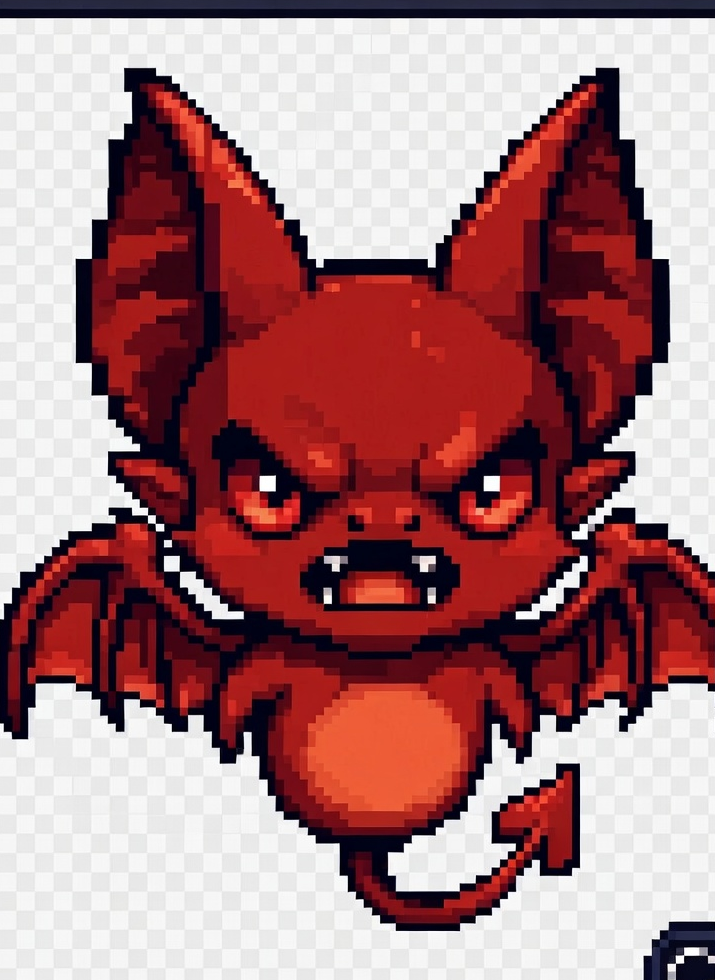
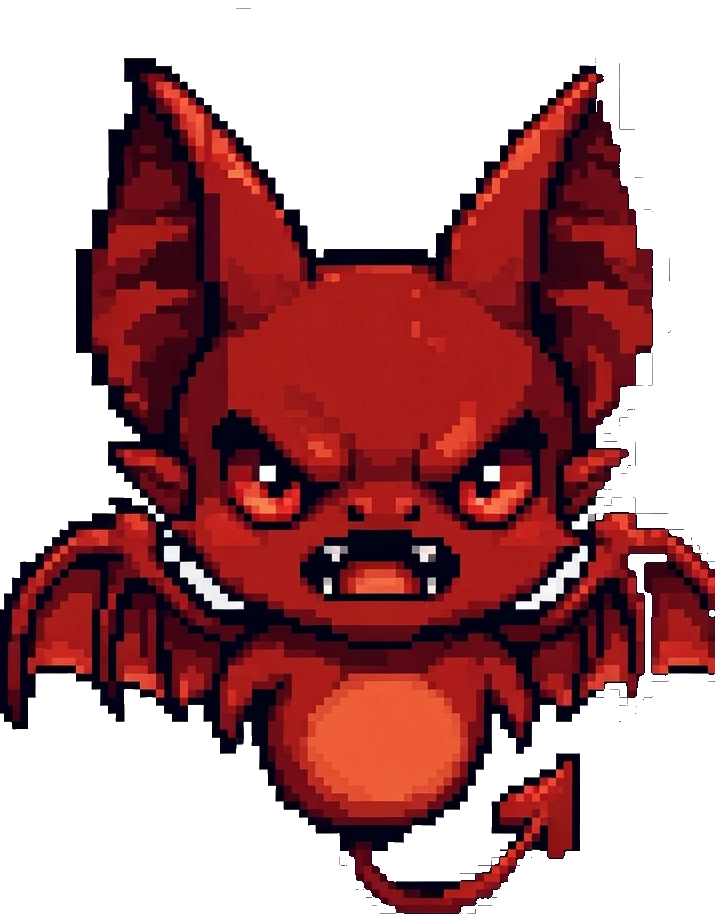
update

diff --git a/github-pages-site/magic-survive-prototype/game.js b/github-pages-site/magic-survive-prototype/game.js
@@ -690,6 +690,17 @@ const gearBook = [
   { name: "增幅器", rarity: "rare", desc: "Magic area +10%", apply: s => { s.area *= 1.1; } },
   { name: "火药", rarity: "common", desc: "Magic area +5%", apply: s => { s.area *= 1.05; } },
   { name: "放射元素", rarity: "epic", desc: "Magic area +15%, duration +10%", apply: s => { s.area *= 1.15; s.duration = (s.duration || 1) * 1.1; } },
+  { name: "太阳镜", rarity: "common", desc: "Crit chance +3%", apply: s => { s.crit += 0.03; } },
+  { name: "彩虹挂饰", rarity: "rare", desc: "Crit chance +10%", apply: s => { s.crit += 0.10; } },
+  { name: "袖箭", rarity: "epic", desc: "Crit chance +15%", apply: s => { s.crit += 0.15; } },
+  { name: "处刑者之斧", rarity: "epic", desc: "Crit damage +100%", apply: s => { s.critMul += 1.0; } },
+  { name: "影子风衣", rarity: "rare", desc: "Ranged attack dodge +50%", apply: s => { s.rangedDodgeChance = Math.max(s.rangedDodgeChance || 0, 0.5); } },
+  { name: "三尖两刃刀", rarity: "common", desc: "Crit damage +30%", apply: s => { s.critMul += 0.3; } },
+  { name: "盗贼匕首", rarity: "rare", desc: "Crit chance +6%, crit damage +20%", apply: s => { s.crit += 0.06; s.critMul += 0.2; } },
+  { name: "奥数指环", rarity: "common", desc: "攻击力+10%", apply: s => { s.damage *= 1.1; } },
+  { name: "紧急医疗包", rarity: "common", desc: "生命恢复+3/秒", apply: s => { s.regen += 3; } },
+  { name: "比蒙之心", rarity: "epic", desc: "最大生命+40%，生命恢复+10/秒", apply: s => { const gain = Math.round(s.maxHp * 0.4); s.maxHp += gain; s.hp += gain; s.regen += 10; } },
+  { name: "便携铁匠铺", rarity: "rare", desc: "全部友方单位减伤+10%", apply: s => { s.groupReduce += 0.10; } },
   { name: "空间扭曲外套", rarity: "epic", desc: "50% chance to reflect ranged attacks", apply: s => { s.rangedReflectChance = Math.max(s.rangedReflectChance || 0, 0.5); } }
 ];
 
@@ -897,14 +908,14 @@ function newState(classId = "elementMage") {
       x: W / 2, y: H / 2, r: Math.round(16 * PLAYER_SIZE_MULT), hp: 180, maxHp: 180, xp: 0, next: 32, level: 1,
       speed: 205, damage: 1, area: 1, cooldown: 1, followerCooldown: 1, duration: 1, defense: 0, groupReduce: 0,
       fire: 1, ice: 1, wind: 1, earth: 1, lightning: 1, arcane: 1, poison: 1,
-      regen: 0.7, crit: 0.05, critMul: 1.5, thorns: 0, healPulse: false, followerLimitBonus: 0, spiritBonus: 0, healAura: 0, healAuraRange: 0, deathExplosionChance: 0, rangedReflectChance: 0, ward: 0, hitGrace: 0
+      regen: 0.7, crit: 0.10, critMul: 1.5, thorns: 0, healPulse: false, followerLimitBonus: 0, spiritBonus: 0, healAura: 0, healAuraRange: 0, deathExplosionChance: 0, rangedReflectChance: 0, rangedDodgeChance: 0, ward: 0, hitGrace: 0
     },
     skills: Object.fromEntries(selectedClass.skills.map(id => [id, skillState(id)])),
     followers: [],
     items: [],
     gear: [],
     artifacts: [],
-    blackMarket: { x: W / 2 + 280, y: H / 2 - 150, r: 88, wasNear: false },
+    blackMarket: { x: W / 2 + 280, y: H / 2 - 150, r: 88, wasNear: false, cycle: 0 },
     worldBosses: Object.fromEntries(Object.entries(WORLD_BOSS_SITES).map(([id, site]) => [id, { ...site, spawned: false, defeated: false }])),
     last: performance.now()
   };
@@ -1274,8 +1285,8 @@ function castSkill(s) {
     const waves = 1 + Math.floor((lvl - 1) / 2);
     for (let w = 0; w < waves; w++) {
       const waveArea = area * (0.72 + w * 0.28);
-      damageCircle(p.x, p.y, waveArea, dmg * (1 - w * 0.12), b.element, true);
-      state.zones.push({ x: p.x, y: p.y, r: waveArea, life: 0.55 + w * 0.12, maxLife: 0.55 + w * 0.12, delay: w * 0.09, damage: dmg * (1 - w * 0.12) * 0.34, impactDamage: dmg * (1 - w * 0.12) * 0.95, element: b.element, type: "earthquakeFx", color: "rgba(180,128,84,.24)", grow: 1.45 + w * 0.22, spin: rand(-0.25, 0.25) });
+      damageCircle(p.x, p.y, waveArea, dmg * (1 - w * 0.12), b.element, true, { falloff: true, minMultiplier: 0.28 });
+      state.zones.push({ x: p.x, y: p.y, r: waveArea, life: 0.55 + w * 0.12, maxLife: 0.55 + w * 0.12, delay: w * 0.09, damage: dmg * (1 - w * 0.12) * 0.34, impactDamage: dmg * (1 - w * 0.12) * 0.95, element: b.element, type: "earthquakeFx", color: "rgba(180,128,84,.24)", grow: 1.45 + w * 0.22, spin: rand(-0.25, 0.25), falloff: true });
     }
     for (let i = 0; i < 5 + lvl * 2; i++) {
       const a = rand(0, Math.PI * 2);
@@ -1949,13 +1960,16 @@ function behemothEarthquake(m) {
   const p = state.player;
   const radius = 185;
   const damage = Math.max(8, 34 * ENEMY_DAMAGE_MULT * timeGrowth() - effectiveDefense() * 0.45) * (1 - effectiveGroupReduce());
-  if (Math.hypot(p.x - m.x, p.y - m.y) < radius + p.r && p.hitGrace <= 0) {
-    p.hp -= damage;
+  const playerDistance = Math.hypot(p.x - m.x, p.y - m.y);
+  if (playerDistance < radius + p.r && p.hitGrace <= 0) {
+    const taken = damage * distanceDamageMultiplier(playerDistance, radius, 0.3);
+    p.hp -= taken;
     p.hitGrace = 0.58;
-    addText(`-${Math.ceil(damage)}`, p.x - 10, p.y - 28, "#ff7a66");
+    addText(`-${Math.ceil(taken)}`, p.x - 10, p.y - 28, "#ff7a66");
   }
   for (const f of state.followers) {
-    if (f.hp > 0 && Math.hypot(f.x - m.x, f.y - m.y) < radius + 18) damageFollower(f, damage * 0.82);
+    const followerDistance = Math.hypot(f.x - m.x, f.y - m.y);
+    if (f.hp > 0 && followerDistance < radius + 18) damageFollower(f, damage * 0.82 * distanceDamageMultiplier(followerDistance, radius, 0.3));
   }
   state.zones.push({ x: m.x, y: m.y, r: radius, life: 0.58, maxLife: 0.58, damage: 0, element: "earth", type: "visual", color: "rgba(118,72,42,.30)", grow: 2.8 });
   addRing(m.x, m.y, radius * 0.58, "rgba(255,150,74,.78)", 0.36);
@@ -2026,16 +2040,27 @@ function updateBehemothCharge(m, target, dt) {
   return true;
 }
 
-function damagePlayerAndFollowersCircle(x, y, radius, damage, color = "#ff7a66") {
+function distanceDamageMultiplier(distance, radius, minMultiplier = 0.3) {
+  const t = Math.min(1, Math.max(0, distance / Math.max(1, radius)));
+  return minMultiplier + (1 - minMultiplier) * (1 - t);
+}
+
+function damagePlayerAndFollowersCircle(x, y, radius, damage, color = "#ff7a66", opts = {}) {
   const p = state.player;
-  if (Math.hypot(p.x - x, p.y - y) < radius + p.r && p.hitGrace <= 0) {
-    const taken = Math.max(1, damage - effectiveDefense() * 0.35) * (1 - effectiveGroupReduce());
+  const playerDistance = Math.hypot(p.x - x, p.y - y);
+  if (playerDistance < radius + p.r && p.hitGrace <= 0) {
+    const falloff = opts.falloff ? distanceDamageMultiplier(playerDistance, radius, opts.minMultiplier) : 1;
+    const taken = Math.max(1, damage * falloff - effectiveDefense() * 0.35) * (1 - effectiveGroupReduce());
     p.hp -= taken;
     p.hitGrace = 0.5;
     addText(`-${Math.ceil(taken)}`, p.x - 10, p.y - 28, color);
   }
   for (const f of state.followers) {
-    if (f.hp > 0 && Math.hypot(f.x - x, f.y - y) < radius + 16) damageFollower(f, damage * 0.8);
+    const followerDistance = Math.hypot(f.x - x, f.y - y);
+    if (f.hp > 0 && followerDistance < radius + 16) {
+      const falloff = opts.falloff ? distanceDamageMultiplier(followerDistance, radius, opts.minMultiplier) : 1;
+      damageFollower(f, damage * 0.8 * falloff);
+    }
   }
 }
 
@@ -2303,10 +2328,12 @@ function isZombieMonster(m) {
   return monsterAssetByName[m.name] === "Zombie.png" || m.name === "Zombie";
 }
 
-function damageCircle(x, y, r, damage, element, slow) {
+function damageCircle(x, y, r, damage, element, slow, opts = {}) {
   for (const m of state.monsters) {
-    if (Math.hypot(m.x - x, m.y - y) < r + m.r) {
-      hitMonster(m, damage, element);
+    const distance = Math.hypot(m.x - x, m.y - y);
+    if (distance < r + m.r) {
+      const falloff = opts.falloff ? distanceDamageMultiplier(distance, r, opts.minMultiplier) : 1;
+      hitMonster(m, damage * falloff, element);
       if (slow) {
         m.slow = 1;
         if (element === "ice") m.frozen = Math.max(m.frozen || 0, 1.15);
@@ -2523,7 +2550,7 @@ function update(dt) {
 function typhonEarthquake(m) {
   const radius = 250;
   const damage = 58 * ENEMY_DAMAGE_MULT * timeGrowth() * (m.attackMul || 1);
-  damagePlayerAndFollowersCircle(m.x, m.y, radius, damage, "#ff9b46");
+  damagePlayerAndFollowersCircle(m.x, m.y, radius, damage, "#ff9b46", { falloff: true, minMultiplier: 0.3 });
   state.zones.push({ x: m.x, y: m.y, r: radius, life: 0.7, maxLife: 0.7, damage: 0, element: "earth", type: "quakeFx", color: "rgba(255,136,54,.28)", grow: 2.4 });
   addRing(m.x, m.y, radius * 0.55, "rgba(255,165,72,.86)", 0.42);
   addRing(m.x, m.y, radius, "rgba(255,95,42,.82)", 0.7);
@@ -2680,6 +2707,11 @@ function updateWorldBossSites() {
 function updateBlackMarket() {
   const market = state.blackMarket;
   if (!market) return;
+  updateBlackMarketSchedule();
+  if (!isBlackMarketActive()) {
+    market.wasNear = false;
+    return;
+  }
   const p = state.player;
   const d = Math.hypot(p.x - market.x, p.y - market.y);
   if (d < market.r && !market.wasNear) {
@@ -2690,14 +2722,32 @@ function updateBlackMarket() {
   }
 }
 
+function isBlackMarketActive() {
+  if (!state?.blackMarket) return false;
+  return (state.time % 300) < 75;
+}
+
+function updateBlackMarketSchedule() {
+  const market = state.blackMarket;
+  if (!market) return;
+  const cycle = Math.floor(state.time / 300);
+  if (market.cycle === cycle) return;
+  market.cycle = cycle;
+  market.wasNear = false;
+  const angle = rand(0, Math.PI * 2);
+  const distance = rand(360, 560);
+  market.x = state.player.x + Math.cos(angle) * distance;
+  market.y = state.player.y + Math.sin(angle) * distance;
+}
+
 function canOpenBlackMarket() {
   const market = state?.blackMarket;
-  if (!state?.running || state.paused || !market) return false;
+  if (!state?.running || state.paused || !market || !isBlackMarketActive()) return false;
   return Math.hypot(state.player.x - market.x, state.player.y - market.y) < market.r + 24;
 }
 
 function openBlackMarket() {
-  if (!state?.running || !state.blackMarket) return;
+  if (!state?.running || !state.blackMarket || !isBlackMarketActive()) return;
   state.paused = true;
   const offers = [];
   const followerPool = [...followerChoices].sort(() => Math.random() - 0.5).slice(0, 3);
@@ -3337,7 +3387,7 @@ function throwBoulder(f, target, damage) {
 
 function giantEarthquake(f, damage) {
   const radius = 132;
-  damageCircle(f.x, f.y, radius, damage, "earth", true);
+  damageCircle(f.x, f.y, radius, damage, "earth", true, { falloff: true, minMultiplier: 0.28 });
   state.zones.push({
     x: f.x,
     y: f.y,
@@ -3564,11 +3614,16 @@ function updateEnemyShots(dt) {
       }
     }
     if (hitFollower) {
-      damageFollower(hitFollower, s.damage);
+      damageFollower(hitFollower, s.damage * 0.5);
       state.enemyShots.splice(i, 1);
       continue;
     }
     if (Math.hypot(s.x - p.x, s.y - p.y) < s.r + p.r) {
+      if (!p.ward && (p.rangedDodgeChance || 0) > 0 && Math.random() < p.rangedDodgeChance) {
+        addText("DODGE", p.x - 18, p.y - 42, "#a7f3d0");
+        state.enemyShots.splice(i, 1);
+        continue;
+      }
       if (!p.ward && (p.rangedReflectChance || 0) > 0 && Math.random() < p.rangedReflectChance) {
         reflectEnemyShot(s);
         state.enemyShots.splice(i, 1);
@@ -3597,7 +3652,7 @@ function updateZones(dt) {
     z.angle = (z.angle || 0) + (z.spin || 0) * dt;
     if (z.type === "earthquakeFx" && !z.impactDone) {
       z.impactDone = true;
-      damageCircle(z.x, z.y, z.r, z.impactDamage || z.damage || 0, z.element, true);
+      damageCircle(z.x, z.y, z.r, z.impactDamage || z.damage || 0, z.element, true, { falloff: true, minMultiplier: 0.28 });
       addParticles(z.x, z.y, "rgba(255,184,94,.64)", 12, z.r * 0.38, 0.5);
     }
     if (z.followPlayer) {
@@ -3649,7 +3704,7 @@ function updateZones(dt) {
       z.quakeTick = (z.quakeTick || 0) - dt;
       if (z.quakeTick <= 0) {
         z.quakeTick = 0.16;
-        damageCircle(z.x, z.y, z.r, (z.damage || z.impactDamage * 0.32 || 0) * 0.85, z.element, true);
+        damageCircle(z.x, z.y, z.r, (z.damage || z.impactDamage * 0.32 || 0) * 0.85, z.element, true, { falloff: true, minMultiplier: 0.28 });
       }
     }
     if (z.poisonDamage || z.blind || z.burnVulnerable || z.burnDamage || z.slow || z.diseaseDamage) {
@@ -3743,7 +3798,7 @@ function updateMonsters(dt) {
     updateDiseaseStatus(m, dt);
     updateBurnStatus(m, dt);
     if (m.burnVulnerable) m.burnVulnerable.time -= dt;
-    const followerTarget = far > 360 ? nearestFollower(m, 430) : null;
+    const followerTarget = far > 640 ? nearestFollower(m, 300) : null;
     const target = followerTarget || p;
     const targetRadius = followerTarget ? 15 : p.r;
     const a = Math.atan2(target.y - m.y, target.x - m.x);
@@ -3884,7 +3939,7 @@ function updateMonsters(dt) {
     }
     if (m.tag === "ranged" && (m.disarm || 0) <= 0) {
       m.shoot -= dt;
-      const shotTarget = far > 420 ? nearestFollower(m, 620) || p : p;
+      const shotTarget = far > 720 ? nearestFollower(m, 360) || p : p;
       const rangeToTarget = Math.hypot(shotTarget.x - m.x, shotTarget.y - m.y);
       if (m.shoot <= 0 && rangeToTarget < 620) {
         if (!monsterAttackMisses(m)) fireEnemyShot(m, shotTarget);
@@ -3911,9 +3966,10 @@ function nearestFollower(pos, range = Infinity) {
 
 function damageFollower(f, amount) {
   if (f.hitGrace > 0) return;
-  f.hp -= amount;
+  const taken = Math.max(1, amount * (1 - effectiveGroupReduce()));
+  f.hp -= taken;
   f.hitGrace = 0.42;
-  addText(`-${Math.ceil(amount)}`, f.x - 10, f.y - 28, "#ffb089");
+  addText(`-${Math.ceil(taken)}`, f.x - 10, f.y - 28, "#ffb089");
 }
 
 function updateGems(dt) {
@@ -4427,7 +4483,7 @@ function drawWorldBossSites() {
 
 function drawBlackMarket() {
   const market = state.blackMarket;
-  if (!market) return;
+  if (!market || !isBlackMarketActive()) return;
   const img = npcImages.blackMarket;
   const pulse = 1 + Math.sin(state.time * 3) * 0.04;
   ctx.save();
@@ -4471,6 +4527,59 @@ function drawTerrainTiles(camX, camY) {
       const terrain = terrainAt(x + cell * 0.5, y + cell * 0.5);
       drawTerrainPatch(terrain, x - camX, y - camY, tx, ty, cell);
     }
+  }
+  drawConnectedRoadNetwork(camX, camY);
+}
+
+function drawConnectedRoadNetwork(camX, camY) {
+  const spacing = 1080;
+  const margin = 320;
+  const drawRoadPath = points => {
+    if (points.length < 2) return;
+    ctx.save();
+    ctx.lineCap = "round";
+    ctx.lineJoin = "round";
+    ctx.globalAlpha = 0.34;
+    ctx.strokeStyle = "rgba(42,31,22,.45)";
+    ctx.lineWidth = 52;
+    ctx.beginPath();
+    points.forEach((p, i) => i ? ctx.lineTo(p.x, p.y) : ctx.moveTo(p.x, p.y));
+    ctx.stroke();
+    ctx.globalAlpha = 0.46;
+    ctx.strokeStyle = "rgba(139,108,72,.72)";
+    ctx.lineWidth = 34;
+    ctx.beginPath();
+    points.forEach((p, i) => i ? ctx.lineTo(p.x, p.y) : ctx.moveTo(p.x, p.y));
+    ctx.stroke();
+    ctx.globalAlpha = 0.22;
+    ctx.strokeStyle = "rgba(225,190,132,.55)";
+    ctx.lineWidth = 9;
+    ctx.beginPath();
+    points.forEach((p, i) => i ? ctx.lineTo(p.x, p.y) : ctx.moveTo(p.x, p.y));
+    ctx.stroke();
+    ctx.restore();
+  };
+  const startRow = Math.floor((camY - margin) / spacing) - 1;
+  const endRow = Math.floor((camY + H + margin) / spacing) + 1;
+  for (let row = startRow; row <= endRow; row++) {
+    const baseY = row * spacing + Math.sin(row * 1.71) * 210;
+    const points = [];
+    for (let wx = camX - margin; wx <= camX + W + margin; wx += 150) {
+      const wobble = Math.sin(wx * 0.0017 + row * 2.1) * 95 + Math.sin(wx * 0.0041 + row) * 28;
+      points.push({ x: wx - camX, y: baseY + wobble - camY });
+    }
+    drawRoadPath(points);
+  }
+  const startCol = Math.floor((camX - margin) / spacing) - 1;
+  const endCol = Math.floor((camX + W + margin) / spacing) + 1;
+  for (let col = startCol; col <= endCol; col++) {
+    const baseX = col * spacing + Math.cos(col * 1.37) * 220;
+    const points = [];
+    for (let wy = camY - margin; wy <= camY + H + margin; wy += 150) {
+      const wobble = Math.sin(wy * 0.0015 + col * 1.9) * 90 + Math.cos(wy * 0.0038 + col) * 26;
+      points.push({ x: baseX + wobble - camX, y: wy - camY });
+    }
+    drawRoadPath(points);
   }
 }
 
@@ -4896,10 +5005,11 @@ function drawPlayer() {
   } else {
     drawCircle(p.x, p.y, p.r, "#73d1ff");
   }
+  const barY = p.y + 55;
   ctx.fillStyle = "rgba(0,0,0,.55)";
-  ctx.fillRect(p.x - 24, p.y - 34, 48, 6);
+  ctx.fillRect(p.x - 26, barY, 52, 6);
   ctx.fillStyle = p.hp / p.maxHp > 0.35 ? "#6df08a" : "#ff6464";
-  ctx.fillRect(p.x - 24, p.y - 34, 48 * Math.max(0, p.hp / p.maxHp), 6);
+  ctx.fillRect(p.x - 26, barY, 52 * Math.max(0, p.hp / p.maxHp), 6);
   ctx.globalAlpha = 0;
   ctx.fillText("✦", p.x - 7, p.y + 6);
 }